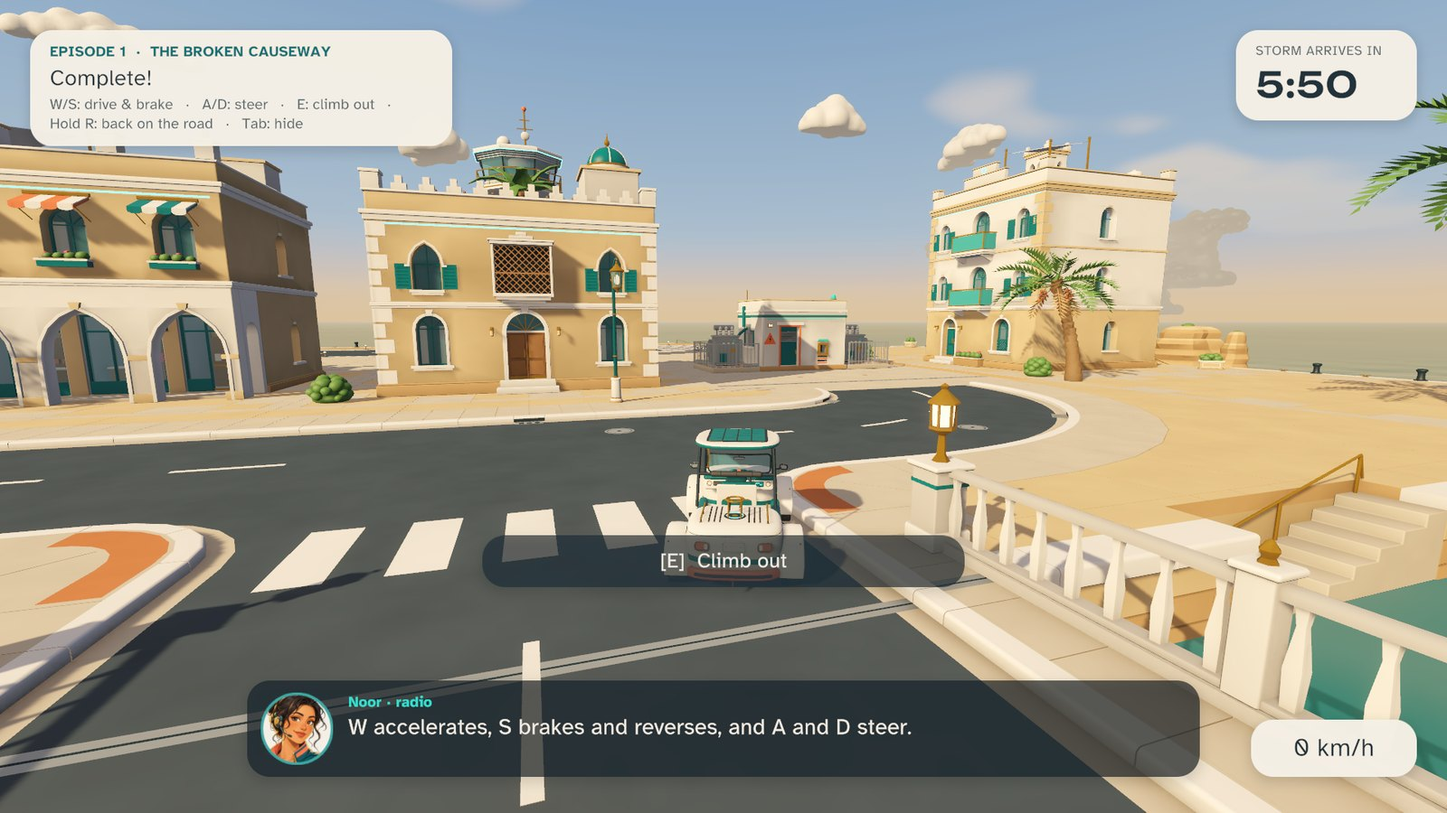
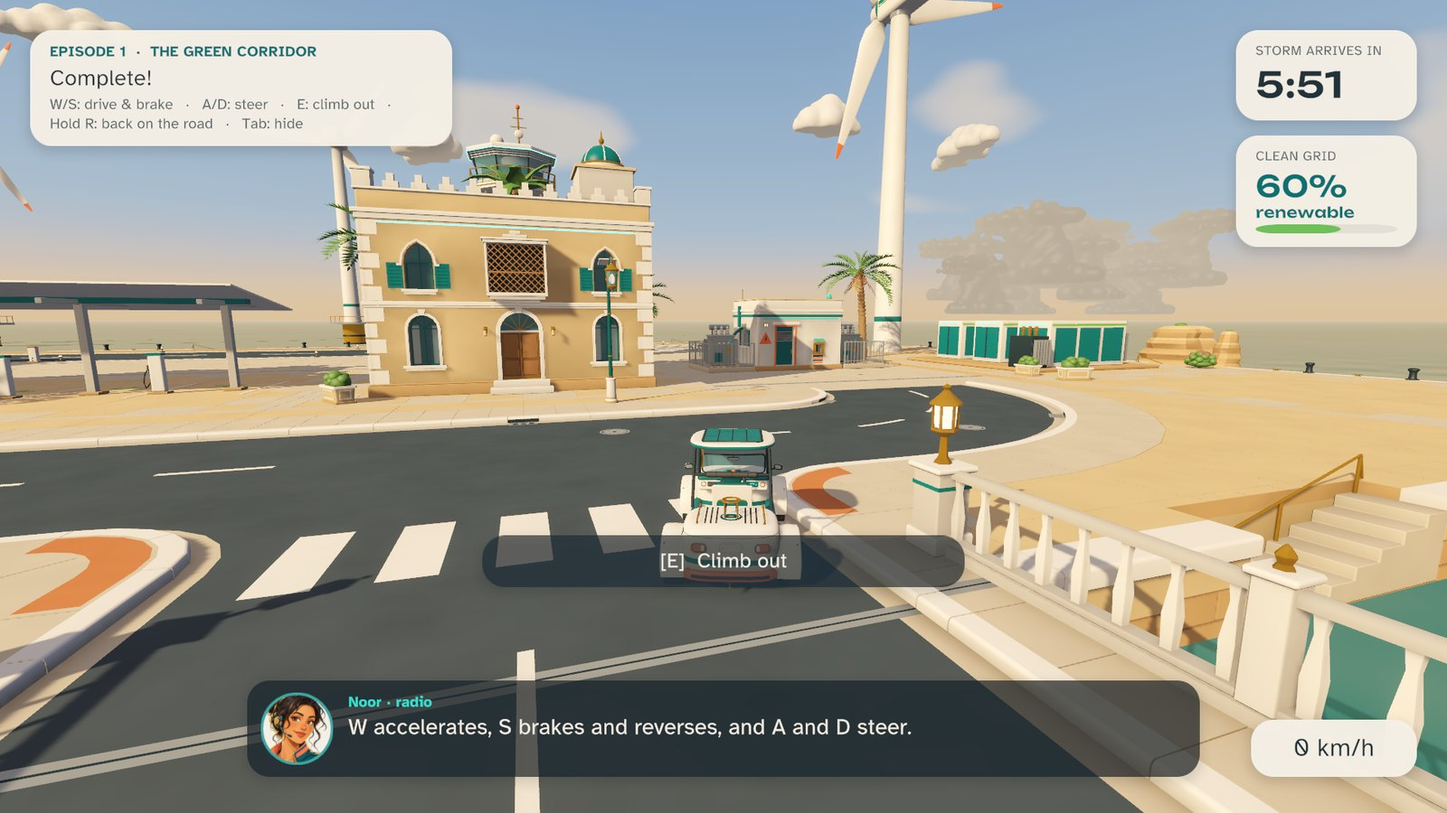
docs: ADIPEC 2026 edition README, presentation script and QA results
Rewrite the presentation script for a high school and graduate audience, map the game to the ADIPEC theme, add the ADIPEC section to the plan, update credits, manifests, release notes and screenshots.

diff --git a/tools/qa/curate_screenshots.py b/tools/qa/curate_screenshots.py
@@ -23,6 +23,8 @@ PICKS = [
     ("episode1east/e1_07_results.png", "09_results.jpg"),
     ("menus/menu_controls.png", "10_controls.jpg"),
     ("menus/menu_audio_focus.png", "11_audio_settings.jpg"),
+    ("tour/tour_11_overlook.png", "12_energy_city.jpg"),
+    ("demo/d_06_results.png", "13_clean_grid_results.jpg"),
 ]
 
 

diff --git a/README.md b/README.md
@@ -1,33 +1,35 @@
-# SKYFOLD: The Last Flight
+# SKYFOLD: The Clean Flight
 
 ![SKYFOLD key art: a miniature coastal city on a pearl plinth above a bay, a small plane taking off as a storm rolls in](docs/screenshots/key_art.jpg)
 
 <sub>Key art made with ChatGPT image generation (AI-generated). It is not an in-game screenshot; real game frames are below and in `docs/screenshots`.</sub>
 
-A hobby project by **Awaiz Ahmed / Team Kanban**: a single-player, nonviolent puzzle-adventure for Windows. Play it on a laptop with keyboard and mouse, or in PC VR on Meta Quest 3 through Link. It is **not** a SHIFT Game Jam entry (it was made before any theme reveal).
+By **Awaiz Ahmed and Huda Mueen / Team Kanban**: a single-player, nonviolent puzzle-adventure about the energy transition, for Windows. Play it on a laptop with keyboard and mouse, or in PC VR on Meta Quest 3 through Link. This is the **ADIPEC 2026 edition**, built around the theme *accelerating decarbonisation, energy security, resilience and industrial innovation*, for an audience of high school students and recent graduates.
 
-> Hold a broken coastal city in your hands, repair its roads as a giant, step inside the world you changed, and get the last flight away before the storm.
+> A storm has cut Nacre Bay's clean power link. Hold the city in your hands, rebuild the green corridor that carries wind and solar power to the island, deliver a green-hydrogen fuel cell to restart its microgrid, and send the city's first zero-emission flight into the sky before the storm arrives.
 
-![The Fold Atelier: the miniature city on its plinth](docs/screenshots/02_atelier_plinth.jpg)
+![The energy-transition city: wind turbines, solar farms and the island airfield](docs/screenshots/12_energy_city.jpg)
 
 ## Play
 
-Install-free: unzip `SKYFOLD_v0.9.1_win64.zip` and double-click one of the `.cmd` launchers inside, or `SKYFOLD.exe`. On the build machine, `tools\package.ps1` also creates two Desktop shortcuts.
+Install-free: unzip `SKYFOLD_v0.10.0_win64.zip` and double-click one of the `.cmd` launchers inside, or `SKYFOLD.exe`. On the build machine, `tools\package.ps1` also creates two Desktop shortcuts.
 
 - **Laptop:** `SKYFOLD.exe --mode=desktop`, or the "SKYFOLD" shortcut.
 - **Quest 3 through Link:** `SKYFOLD.exe --mode=vr`, or the "SKYFOLD - Quest 3" shortcut. See [docs/QUEST_LINK_SETUP.md](docs/QUEST_LINK_SETUP.md).
 - **Three-minute demo:** `SKYFOLD.exe --demo` (asks laptop or VR first), or `--mode=desktop --demo` / `--mode=vr --demo` to go straight in.
 
-Controls: [docs/CONTROLS.md](docs/CONTROLS.md).
+Controls: [docs/CONTROLS.md](docs/CONTROLS.md). Presenting at a stand: [docs/PRESENTATION_SCRIPT.md](docs/PRESENTATION_SCRIPT.md).
 
 ## What's in it
 
 - **Architect and Street.** Grab road and bridge modules on a 1:160 miniature city and snap them into sockets. Then fold down into the full-size city and drive across what you built. One city state drives both scales.
-- **Three episodes and a demo.** *The Broken Causeway* (route choice: the long west crossing or the east shortcut), *The Courier Run* (carry a power cell across your causeway), *The Last Flight* (repair the terminal link, light the runway, let the convoy arrive, clear the departure). The demo condenses the whole arc into three minutes.
+- **Three episodes and a demo.** *The Green Corridor* (rebuild the causeway that carries the island's power cable; the long west crossing or the east shortcut), *The Hydrogen Run* (drive a green-hydrogen fuel cell across your causeway and restart the airfield microgrid), *The Clean Flight* (repair the terminal link, switch on the solar runway beacons, let the electric shuttles arrive, clear the hydrogen-electric plane for take-off). The demo condenses the whole arc into three minutes.
+- **Clean-grid meter.** The share of renewable power climbs from 30% to 100% as you repair the city. It is worked out from what you actually did, never from timers, and shows on the laptop HUD and the VR wrist panel. Each results screen adds a short, real energy fact.
+- **An energy-transition city.** Onshore and offshore wind turbines with spinning rotors, solar farms, a solar carport with EV chargers, a grid-battery yard beside the airfield microgrid, a green-hydrogen works next to the depot, a direct-air carbon-capture unit on the harbour, and solar street lamps.
 - **Storm timer.** It is the only way to fail. Retry from a checkpoint, and medals are computed from how you actually played.
-- **Companions.** Noor guides you over the radio (local Kokoro TTS, subtitles on by default). NURI, a mechanical falcon, points the way.
+- **Companions.** Noor, the city's energy engineer, guides you over the radio (local Kokoro TTS, subtitles on by default). NURI, a mechanical falcon, points the way.
 - **Comfort.** Teleport or smooth movement, snap or smooth turning, vignette, seated mode, height and recenter. In VR, drive from the cockpit or remotely from a fixed overlook.
-- **Detailed stylized art.** All 71 models are generated by Blender scripts: layered mouldings, deep windows with frames and shutters, balustrades, kerb stones and drains, feathered NURI, panel-lined vehicles with spoked wheels. A custom URP shader adds screen-space ambient occlusion, sky reflections on glass and metal, and subtle surface variation, with four shadow cascades.
+- **Detailed stylized art.** All 79 models are generated by Blender scripts: layered mouldings, deep windows with frames and shutters, twisted turbine blades with marked tips, PV panels with cell strips, feathered NURI, panel-lined vehicles with spoked wheels. A custom URP shader adds screen-space ambient occlusion, sky reflections on glass and metal, and subtle surface variation, with four shadow cascades.
 
 ## Build from source
 
@@ -37,6 +39,8 @@ Unity **6000.6.2f1** (URP 17.6, Input System, OpenXR 1.18, XR Interaction Toolki
 powershell -NoProfile -ExecutionPolicy Bypass -File tools\build.ps1 -QA smoke demo -Package
 ```
 
+Models: `blender -b --factory-startup -P tools/blender/build_env.py -- build all` (environment kit, including the `energy` group) plus the `tools/blender/veh_*.py` and `chars_*.py` scripts. Blender 5.2.
+
 Automated QA scenarios: `tools\qa\run_qa.ps1 <scenario...>` (see [docs/QA_REPORT.md](docs/QA_REPORT.md)).
 
 ## Docs
@@ -45,4 +49,4 @@ Automated QA scenarios: `tools\qa\run_qa.ps1 <scenario...>` (see [docs/QA_REPORT
 
 ## Credits and licences
 
-All 3D models, music, ambience, icons and most sound effects are original, generated by scripts in `tools/`. Noor's voice is AI text-to-speech (Kokoro-82M, Apache-2.0, stock voice). The key art, Noor's radio portrait and the NURI reference sheet are AI-generated with ChatGPT image generation. Some effects layer CC0 Kenney.nl recordings. Fonts are Unbounded and Atkinson Hyperlegible (SIL OFL 1.1). Full details: [docs/ASSET_MANIFEST.md](docs/ASSET_MANIFEST.md). Noor and NURI are fictional characters, not depictions of any real person.
+All 3D models, music, ambience, icons and most sound effects are original, generated by scripts in `tools/`. Noor's voice is AI text-to-speech (Kokoro-82M, Apache-2.0, stock voice). The key art, Noor's radio portrait and the NURI reference sheet are AI-generated with ChatGPT image generation. Some effects layer CC0 Kenney.nl recordings. Fonts are Unbounded and Atkinson Hyperlegible (SIL OFL 1.1). Full details: [docs/ASSET_MANIFEST.md](docs/ASSET_MANIFEST.md). Noor and NURI are fictional characters, not depictions of any real person. Nacre Bay is fictional, and nothing here is endorsed by any government, company or event. The clean-grid percentages are game values, not real measurements.

diff --git a/docs/PRESENTATION_SCRIPT.md b/docs/PRESENTATION_SCRIPT.md
@@ -1,41 +1,54 @@
-# SKYFOLD: The Last Flight — presentation script (hobby project)
+# SKYFOLD: The Clean Flight — ADIPEC presentation script
 
-About 3 minutes, alongside the live demo. Present it as a **hobby project by Awaiz Ahmed / Team Kanban**. It is not a SHIFT Game Jam entry and was made before any jam theme reveal, so do not pitch it as a jam submission.
+About 3 minutes, alongside the live demo. Presented by **Awaiz Ahmed and Huda Mueen / Team Kanban**.
+Audience: high school students and recent graduates. Keep it friendly and fast, and let them hold the controller as early as you can.
+
+ADIPEC 2026 theme: *accelerating decarbonisation, energy security, resilience and industrial innovation across the global energy value chain.* The game touches all four:
+
+| Theme | Where it shows up in the game |
+| --- | --- |
+| Decarbonisation | Wind and solar power the city; an electric courier car; a hydrogen-electric plane with no exhaust; a carbon-capture unit on the harbour |
+| Energy security | The causeway carries the power cable to the island: rebuild it, and the island gets clean power again |
+| Resilience | A storm is the only way to fail. An island microgrid with grid batteries keeps the airfield running |
+| Industrial innovation | A green-hydrogen works makes the fuel cell you deliver, splitting water with renewable electricity |
 
 ## Before you start (2 minutes of setup)
 
 - Laptop on mains power, the game closed, Desktop visible.
-- **VR demo:** Meta Horizon Link running, headset on Link home, then the **SKYFOLD - Quest 3** shortcut. **Laptop-only demo:** the **SKYFOLD** shortcut, then *Three-minute demo*.
-- Spectators watch the laptop: in VR it mirrors the left eye and adds a laptop-only overlay (objective, subtitles, storm timer).
+- **VR demo:** Meta Horizon Link running, headset on Link home, then the **SKYFOLD - Quest 3** shortcut. **Laptop demo:** the **SKYFOLD** shortcut, then *Three-minute demo*.
+- Spectators watch the laptop: in VR it mirrors the headset view and adds a laptop-only overlay (objective, subtitles, storm timer, clean-grid meter).
 - Between visitors: Pause → *Operator: reset demo* (or F5). The demo never touches campaign progress.
 
 ## Script
 
-**0:00 — Hook (while the title screen orbits the plinth)**
-"This is SKYFOLD. A storm is coming to a little coastal city called Nacre Bay, and it has broken the roads. You fix them by holding the whole city in your hands."
+**0:00 — Hook (title screen)**
+"This is SKYFOLD. A storm is heading for a little coastal city called Nacre Bay, and it has cut the city's clean power link. Your job: hold the whole city in your hands and fix it."
 
 **0:15 — The miniature**
-"This model on the plinth is the real city below us, at 1:160. Grab the bridge piece, turn it, and set it into a glowing socket. If it doesn't fit, it tells you why in plain words and gives the piece back."
-*(Place the bridge on the east crossing.)*
+"This model is the real city, at 1:160. See the wind turbines and the solar farms? Grab the bridge piece, turn it and drop it into a glowing socket. The bridge carries the power cable, so fixing it reconnects the island."
+*(Place the bridge on the east crossing. Point at the top-right meter.)*
+"Watch the clean grid meter: it just jumped from 30 to 60 percent renewable."
 
-**0:40 — The fold**
-"Now the important part: fold down." *(X in VR, Q on the laptop.)* "Same city, real scale. The bridge you just placed is now a real bridge you can drive over. One city state drives both sizes, so whatever you change in your hands changes the street."
+**0:45 — The fold**
+"Now fold down." *(X in VR, Q on the laptop.)* "Same city, real size. The bridge you just placed is a real bridge now."
 
-**1:00 — Carry and drive**
-"The airfield needs power. Pick up the cell, load it into the courier car, climb in." *(Drive across the bridge.)* "In VR you can sit in the car with a stable horizon, or steer it from a fixed overlook if driving makes you queasy."
+**1:00 — The hydrogen run**
+"The airfield's microgrid is dark. Grab the green-hydrogen fuel cell from the dock. It was made next door by splitting water with solar and wind power, and the only by-product is oxygen. Load it into the electric courier car and drive it across your bridge."
 
-**1:45 — Power and beacons**
-"Plug the cell into the substation, switch on the runway beacons, and clear the last flight."
-*(NURI, the mechanical falcon, points the way. Noor talks you through it on the radio.)*
+**1:45 — Microgrid and runway**
+"Plug the cell into the microgrid. The grid batteries charge, the island lights come on, and the meter climbs again. Flip the solar beacon switch, then clear the flight."
 
 **2:20 — Payoff**
-"And there it goes." *(Takeoff.)* "The storm timer is the only way to fail, and a retry puts you back at the last checkpoint. Medals come from how you actually played: time left, careful placements, hints."
+"And there she goes: a hydrogen-electric plane. Hydrogen in, only water out." *(Takeoff, results screen.)* "The results show how clean you made the grid, plus a real energy fact."
 
 **2:45 — Close**
-"SKYFOLD runs on this laptop with keyboard and mouse, or on a Quest 3 through Link, from one install-free folder. All the models, music and most sounds were made by scripts for this project. Noor's voice is local text-to-speech. Thanks for playing."
+"Everything in SKYFOLD, from the turbines to the plane, was built by code for this project. It runs on a laptop or a Quest 3. Want to try the full campaign? It's three episodes."
 
-## Honest answers to likely questions
+## Quick answers to likely questions
 
-- *Is VR finished?* The VR build path and controls are implemented. Headset testing is still to do, and the QA report says so.
-- *Is this a jam game?* No. It's a hobby project made before any jam theme was announced.
-- *Who made the art?* Everything was procedurally generated by Blender Python scripts written for this project. Noor's voice is AI text-to-speech (Kokoro, stock voice). Any AI images are listed in the asset manifest. None are in this build.
+- *Is the clean-grid percentage real?* No. It is a game value that grows with each repair. The energy facts on the results screen are real, simplified explanations.
+- *What is green hydrogen?* Hydrogen made by splitting water with renewable electricity, so making it gives off no CO2.
+- *What does the carbon-capture unit do?* Its fans pull air through filters that trap CO2, which can then be stored underground.
+- *Why a microgrid?* A small local grid with its own batteries keeps important places, like an airport, running when the main grid goes down.
+- *Is VR finished?* The VR controls are in and work through Link. We are still testing on the headset.
+- *Who made it?* Awaiz Ahmed and Huda Mueen (Team Kanban). The 3D models, music and most sounds come from scripts we wrote for this project. Noor's voice is local text-to-speech (Kokoro, stock voice), and the AI images are listed in the asset manifest.

diff --git a/docs/ASSET_MANIFEST.md b/docs/ASSET_MANIFEST.md
@@ -1,9 +1,9 @@
-# SKYFOLD: The Last Flight — Asset manifest
+# SKYFOLD: The Clean Flight — Asset manifest
 
-Hobby project by **Awaiz Ahmed / Team Kanban**. Everything shipped in the build is listed here with its source, licence and AI status. Per-file tables (every model, every sound) live in the detailed manifests:
+By **Awaiz Ahmed and Huda Mueen / Team Kanban** (ADIPEC 2026 edition). Everything shipped in the build is listed here with its source, licence and AI status. Per-file tables (every model, every sound) live in the detailed manifests:
 
-- `docs/manifest/art_env.md`: 59 environment models (city kit, roads, bridges, Atelier, props, nature, sky).
-- `docs/manifest/art_chars.md`: 12 character and vehicle models (NURI, gloves, cars, aircraft, power cell, passengers).
+- `docs/manifest/art_env.md`: 67 environment models (city kit, roads, bridges, Atelier, props, nature, sky, and the energy set: wind turbines, solar farm and carport, grid batteries, green-hydrogen works, carbon-capture unit, EV charger).
+- `docs/manifest/art_chars.md`: 12 character and vehicle models (NURI, gloves, cars, hydrogen-electric aircraft, hydrogen fuel cell, passengers).
 - `docs/manifest/audio.md`: 125 audio files (Noor voice lines, SFX, music, ambience), with licence verification notes.
 
 Verification status wording: **Verified** means the licence text was read from the source files on this machine. **Stated by source** means the source documents the licence but no licence file came with the local copy.
@@ -12,9 +12,9 @@ Verification status wording: **Verified** means the licence text was read from t
 
 | Category | What | Source / provider | Licence | Verification | AI status |
 | --- | --- | --- | --- | --- | --- |
-| 3D models (71 files) | City kit, roads, bridge, Atelier, props, palms, sky, NURI, gloves, courier car, convoy shuttle, city cars, aircraft, power cell, passengers | Original procedural Blender 5.2 Python scripts in `tools/blender/` (written in an AI-assisted coding session) | Original work for SKYFOLD | Verified (built from repo scripts) | Not AI-generated: geometry comes only from the scripts. No external models, scans or generative 3D. |
+| 3D models (79 files) | City kit, roads, bridge, Atelier, props, palms, sky, energy set (wind turbines, solar, grid batteries, green hydrogen, carbon capture, EV charger), NURI, gloves, courier car, convoy shuttle, city cars, hydrogen-electric aircraft, hydrogen fuel cell, passengers | Original procedural Blender 5.2 Python scripts in `tools/blender/` (written in an AI-assisted coding session) | Original work for SKYFOLD | Verified (built from repo scripts) | Not AI-generated: geometry comes only from the scripts. No external models, scans or generative 3D. |
 | Materials and shaders | `SKY_*` palette materials; Skyfold Stylized Lit, Water, Sky, Unlit and Fade shaders | Written for this project (`Assets/Skyfold/Shaders`, `Scripts/Editor/Art/MaterialLibrary.cs`) | Original work | Verified | Not AI-generated output. Code was written in an AI-assisted session. |
-| Voice (52 lines, Noor) | Narration and tutorial lines | Kokoro-82M TTS (hexgrad), stock voice `af_heart`, run locally through the kanban-motion skill | Model: Apache-2.0; output owned by the project | Verified (package metadata) | **AI-generated speech** (local TTS). Stock voice, no voice cloning, no imitation of a real person. |
+| Voice (52 lines, Noor) | Narration and tutorial lines | Kokoro-82M TTS (hexgrad), stock voice `af_heart`, run locally (the ADIPEC lines through `tools/audio/voiceover_local.py`) | Model: Apache-2.0; output owned by the project | Verified (package metadata) | **AI-generated speech** (local TTS). Stock voice, no voice cloning, no imitation of a real person. |
 | Sound effects | UI, car, cell, switches, aircraft, storm, NURI chirps | Original DSP synthesis (`tools/audio/*.py`) layered with processed Kenney.nl recordings (impact, interface and casino packs) | Original + **CC0 1.0** (Kenney) | Synthesis: verified. Kenney: **stated by source** (the kanban-motion skill documents them as public-domain Kenney.nl sounds, and Kenney publishes its packs under CC0; no licence file was bundled with the local copy) | Not AI-generated |
 | Music and ambience | Menu, architect, street, drive, storm and finale music plus three stingers; coast, city, Atelier and storm ambience loops | Original composition and synthesis (`tools/audio/make_music.py`, `tools/audio/make_ambience.py`) | Original work | Verified | Not AI-generated (deterministic DSP) |
 | Fonts | Unbounded (headings, SemiBold instance), Atkinson Hyperlegible Regular and Bold (body) | google/fonts GitHub repository (`ofl/unbounded`, `ofl/atkinsonhyperlegible`) | SIL Open Font License 1.1 | Verified (OFL.txt downloaded with each font; copies in `Assets/Skyfold/Fonts` and the release `licenses` folder) | Not AI-generated. The Unbounded SemiBold static instance was cut locally from the variable font with fontTools (allowed by the OFL; no Reserved Font Name). |
@@ -30,7 +30,7 @@ Verification status wording: **Verified** means the licence text was read from t
 
 - **Date:** all made on 2026-10-17, in one ChatGPT chat ("Create Key Art").
 - **Account:** the team's ChatGPT workspace account, signed in by Awaiz Ahmed. The address is left out because this repository is public.
-- **How:** Claude in Chrome would not connect to your Chrome, so with your go-ahead the chat ran in a separate Chrome window opened by the chrome-devtools tool. You signed in there yourself.
+- **How:** the chat ran in a separate Chrome window opened by the chrome-devtools tool, and Awaiz signed in there directly.
 - **Files:** each PNG is byte-for-byte what ChatGPT returned and still carries OpenAI's C2PA content-credentials chunk.
 - **Prompt rules:** every prompt forbade text, real people's likenesses and imitation of named artists.
 - **AI status of every file in this section:** AI-generated (ChatGPT image generation).

diff --git a/docs/PLAN.md b/docs/PLAN.md
@@ -1,6 +1,15 @@
-# SKYFOLD: The Last Flight — Plan
+# SKYFOLD: The Clean Flight — Plan
 
-**Mode: HOBBY.** Creator credit: Awaiz Ahmed / Team Kanban. Single-player, nonviolent puzzle-adventure for Windows x64, playable on the laptop (desktop mode) and in PC VR on Meta Quest 3 through Link. One executable, two Desktop shortcuts.
+**Mode: HOBBY, ADIPEC 2026 edition.** Creator credit: Awaiz Ahmed and Huda Mueen / Team Kanban. Single-player, nonviolent puzzle-adventure for Windows x64, playable on the laptop (desktop mode) and in PC VR on Meta Quest 3 through Link. One executable, two Desktop shortcuts.
+
+## 0. ADIPEC 2026 edition
+
+- **Showcase, not a jam entry.** Shown at ADIPEC 2026 under the theme *accelerating decarbonisation, energy security, resilience and industrial innovation across the global energy value chain*. The SHIFT boundary below still stands: this edition is a showcase build, not a jam submission.
+- **Audience:** high school students and recent graduates. Text is short and plain; each results screen adds one simple, real energy fact.
+- **Story reframe (same systems, same world):** the storm has cut Nacre Bay's clean power link. The causeway carries the island's power cable (*The Green Corridor*), the courier delivers a green-hydrogen fuel cell to restart the airfield microgrid (*The Hydrogen Run*), and the last flight becomes the city's first zero-emission, hydrogen-electric flight (*The Clean Flight*).
+- **Clean-grid meter:** `GridImpact` works out the renewable share (30% base, +30 corridor, +20 microgrid, +10 solar runway, +10 clean flight) from `CityState` facts only, never timers. Shown on the laptop HUD, the VR wrist panel and the results screen; a toast (also on the VR hint card) marks each new source. The percentages are game values, not real measurements.
+- **Energy set** (`tools/blender/env_energy.py`, group `energy`): onshore and offshore wind turbines (separate `Rotor`, spun by `WindTurbine`), solar farm, solar carport, grid-battery yard, green-hydrogen works, direct-air carbon-capture unit, EV charger. Street lamps gain a solar head; the aircraft becomes hydrogen-electric (no exhausts); the power cell becomes a hydrogen fuel cell.
+- **Both play modes:** every new element works in desktop and VR. Menus and results use the shared panel builder; the HUD meter has a desktop card and a wrist-panel line.
 
 ## 1. Event boundary (SHIFT Game Jam)
 
@@ -11,7 +20,7 @@
 
 ## 2. The game in one line
 
-Hold a broken city in your hands, repair its roads as a giant, step inside the world you changed, and get the last flight into the sky before the storm.
+Hold a broken city in your hands, rebuild the green corridor that carries its clean power, step inside the world you changed, and send the city's first zero-emission flight into the sky before the storm.
 
 ## 3. World: Nacre Bay (fictional)
 
@@ -32,9 +41,9 @@ Hold a broken city in your hands, repair its roads as a giant, step inside the w
 
 | Episode | Goal | Key mechanics |
 | --- | --- | --- |
-| 1 · The Broken Causeway | Connect the Depot to the island | Tutorial grab/rotate/snap, route choice, fold, unlock the courier car |
-| 2 · The Courier Run | Carry a power cell into the car and deliver it to the airfield substation | Physical carry, arcade car, checkpoints, comfort *Remote Drive* from a fixed overlook; afterwards a convoy follows the repaired route |
-| 3 · The Last Flight | Repair the terminal access link, restore three runway beacons, let the convoy arrive, clear departure | Fold from the Airfield station, switches, aircraft state machine and takeoff payoff |
+| 1 · The Green Corridor | Rebuild the causeway (road plus the island's power cable) to connect the Depot to the island | Tutorial grab/rotate/snap, route choice, fold, unlock the courier car |
+| 2 · The Hydrogen Run | Carry a green-hydrogen fuel cell into the car and deliver it to the airfield microgrid | Physical carry, arcade car, checkpoints, comfort *Remote Drive* from a fixed overlook; afterwards a convoy follows the repaired route |
+| 3 · The Clean Flight | Repair the terminal access link, switch on three solar runway beacons, let the electric shuttles arrive, clear the hydrogen-electric plane for take-off | Fold from the Airfield station, switches, aircraft state machine and takeoff payoff |
 | Demo (3 min) | Bridge → fold → cell + car → beacons → takeoff | Shorter route, generous hints, real input, no auto-win, separate progress |
 
 Target is 10–15 min for a first full playthrough. The storm timer is the failure state. It starts only after the tutorial steps complete, and it pauses in menus, settings, tutorials, on tracking loss and on headset removal.

diff --git a/docs/QA_REPORT.md b/docs/QA_REPORT.md
@@ -1,6 +1,25 @@
-# SKYFOLD: The Last Flight — QA and performance report
+# SKYFOLD: The Clean Flight — QA and performance report
 
 Every result below comes from a run on this machine. Anything that was not actually exercised is marked **NOT TESTED**.
+
+## ADIPEC 2026 edition (0.10.0), 2026-10-28
+
+Release build of 0.10.0 (energy-transition rework): 256 MB player, 0 build errors, 4 build warnings, scene validation 0 problems. Built and tested on a second machine: AMD Ryzen 7 7730U with Radeon integrated graphics (D3D11, 7 GB shared), 14 GB RAM, Windows 11 (10.0.26200), 1920×1200 panel. No headset connected.
+
+| Scenario | Result |
+| --- | --- |
+| smoke | 5/5 passed |
+| menus | 21/21 passed |
+| episode1east | 26/26 passed |
+| demo | 21/21 passed (clean-grid toast at 80% on the microgrid, 100% on the results screen) |
+| fullcampaign | 67/67 passed (all three episodes, results screens show the clean-grid share and an energy fact) |
+| fail | 5/5 passed |
+| vrsim (simulated headset) | 29/29 passed; the wrist panel shows the clean-grid line |
+| tour, lookdev | passed; screenshots `docs/screenshots/12_energy_city.jpg` and `13_clean_grid_results.jpg` |
+
+New in this edition and checked in those runs: wind-turbine rotors spin on the full-scale city and the miniature, the EV chargers and solar carport have colliders and do not block the courier car's bay, the offshore turbines sit clear of the take-off climb-out, and Noor's 22 re-recorded lines play with matching subtitles. **NOT TESTED:** a real Quest 3 session with this edition, and frame rate on the original RTX 5080 laptop.
+
+The sections below are the original 0.9.1 report and still describe the shared systems.
 
 ## Build and machine
 

diff --git a/docs/ENVIRONMENT.md b/docs/ENVIRONMENT.md
@@ -92,7 +92,6 @@ Not installed on purpose: com.unity.xr.meta-openxr (AR Foundation features for Q
 
 | Tool / skill | Status |
 | --- | --- |
-| Claude in Chrome (your real Chrome) | **Not connected.** Still no connected browsers on 2026-10-17, even with the extension installed and signed in to the Awaiz profile; most likely it uses a different Claude account from this app's. |
 | Built-in browser pane | Available, isolated; it has no ChatGPT sign-in, so I'm not relying on it for your ChatGPT session |
 | chrome-devtools MCP | Opens its own Chrome window with a separate profile. Used, with your go-ahead, for the ChatGPT images on 2026-10-17; you signed in to ChatGPT there yourself (see `docs/ASSET_MANIFEST.md`) |
 | Unity MCP | None found. Automation uses Unity batch mode plus C# editor scripts (`Assets/Skyfold/Editor`) |

diff --git a/docs/CONTROLS.md b/docs/CONTROLS.md
@@ -1,4 +1,4 @@
-# SKYFOLD: The Last Flight — Controls
+# SKYFOLD: The Clean Flight — Controls
 
 One game, two ways to play. Both use the same save. The in-game **Controls** screen (main menu or pause) shows the same list.
 
@@ -57,7 +57,7 @@ One game, two ways to play. Both use the same save. The in-game **Controls** scr
 | Move (Smooth movement mode) | Left stick |
 | Turn (snap by default; smooth is an option) | Right stick left / right |
 | Teleport | Hold **A** to aim, release to jump (cancel by pointing at nothing valid) |
-| Grab a piece, the power cell or a lever | Grip |
+| Grab a piece, the hydrogen cell or a lever | Grip |
 | Use, press buttons, menu pointer | Trigger |
 | Fold (at a Fold Station kiosk or the plinth) | **X** |
 | Wrist objectives | **Y** |
